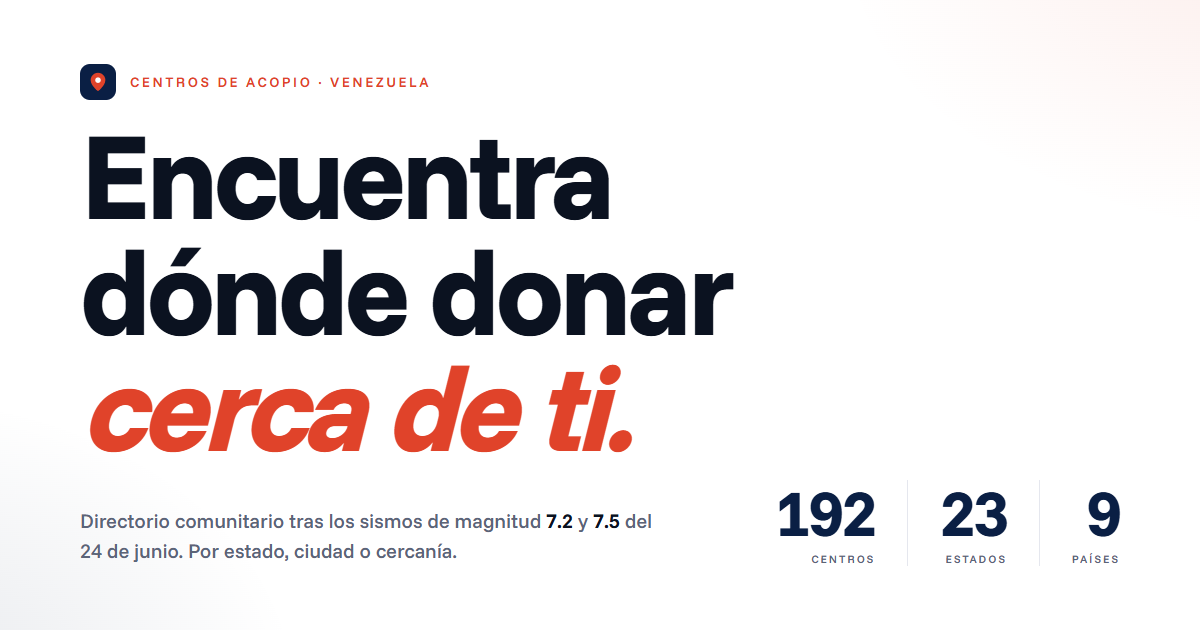
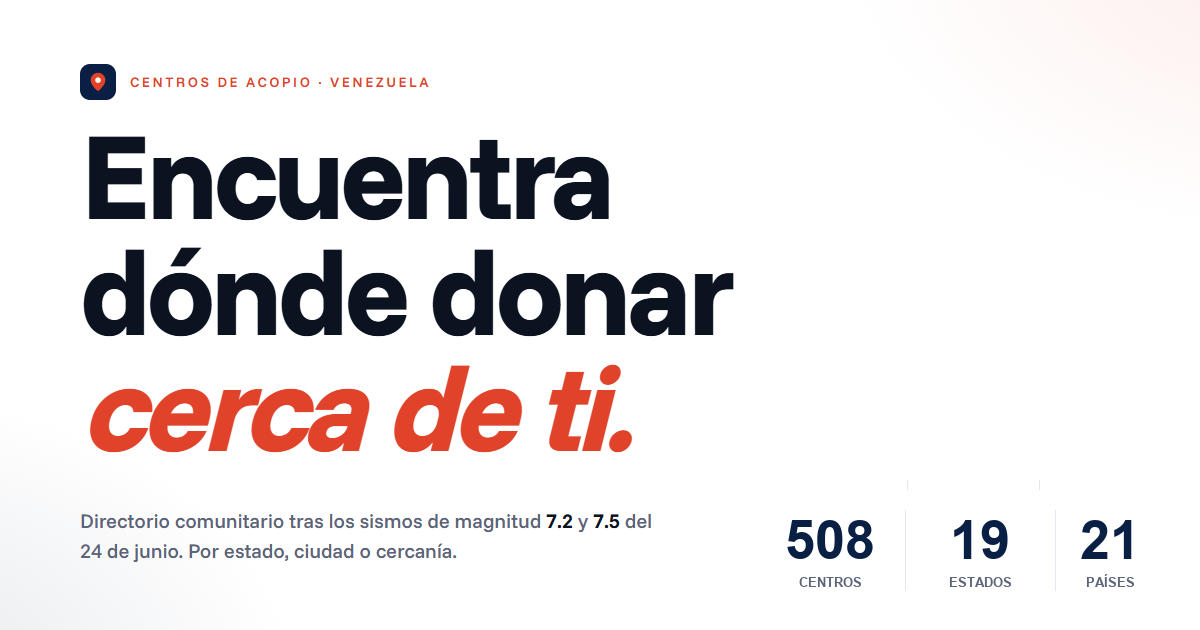
Actualiza OG image y meta descriptions con conteo actual
- OG image: 192/23/9 → 508/19/21 (centros/estados/países)
- meta description: 500+ centros en 19 estados de Venezuela y 21 países
- og:description y twitter:description con el nuevo conteo

Changed region(s): [[0.6475, 0.7841, 0.74, 0.9349], [0.7708, 0.7841, 0.8633, 0.9349], [0.8942, 0.7841, 0.9558, 0.9349]]

diff --git a/index.html b/index.html
@@ -7,7 +7,7 @@
     <!-- Primary Meta -->
     <title>Centros de Acopio Venezuela — Directorio comunitario tras el sismo</title>
     <meta name="title" content="Centros de Acopio Venezuela — Directorio comunitario tras el sismo" />
-    <meta name="description" content="Encuentra dónde donar cerca de ti. Directorio abierto de centros de acopio en Venezuela y el exterior tras los dos sismos de magnitud 7.2 y 7.5 del 24 de junio. Busca por estado, ciudad o cercanía. Reporta nuevos puntos." />
+    <meta name="description" content="Encuentra dónde donar cerca de ti. Directorio abierto con 500+ centros de acopio en 19 estados de Venezuela y 21 países, tras los dos sismos de magnitud 7.2 y 7.5 del 24 de junio. Busca por estado, ciudad o cercanía. Reporta nuevos puntos." />
     <meta name="keywords" content="centros de acopio Venezuela, donaciones Venezuela, sismo Venezuela, terremoto, ayuda humanitaria, donar, Cáritas, Caracas, Maracaibo, Punto Fijo, Aragua, refugio, agua potable, alimentos, medicamentos" />
     <meta name="author" content="Comunidad — Directorio abierto" />
     <meta name="robots" content="index, follow" />
@@ -37,7 +37,7 @@
     <meta property="og:site_name" content="Centros de Acopio Venezuela" />
     <meta property="og:url" content="https://www.centrosdeacopiovzla.com/" />
     <meta property="og:title" content="Centros de Acopio Venezuela" />
-    <meta property="og:description" content="Encuentra dónde donar cerca de ti. Directorio comunitario abierto tras los dos sismos de magnitud 7.2 y 7.5. Busca por estado, ciudad o cercanía." />
+    <meta property="og:description" content="500+ centros de acopio en 19 estados de Venezuela y 21 países. Directorio comunitario abierto tras los dos sismos de magnitud 7.2 y 7.5 del 24 de junio. Busca por estado, ciudad o cercanía." />
     <meta property="og:image" content="https://www.centrosdeacopiovzla.com/og-image.png" />
     <meta property="og:image:width" content="1200" />
     <meta property="og:image:height" content="630" />
@@ -47,7 +47,7 @@
     <meta name="twitter:card" content="summary_large_image" />
     <meta name="twitter:url" content="https://www.centrosdeacopiovzla.com/" />
     <meta name="twitter:title" content="Centros de Acopio Venezuela" />
-    <meta name="twitter:description" content="Encuentra dónde donar cerca de ti. Directorio comunitario abierto tras el sismo." />
+    <meta name="twitter:description" content="500+ centros en 19 estados de Venezuela y 21 países. Directorio comunitario abierto tras el sismo." />
     <meta name="twitter:image" content="https://www.centrosdeacopiovzla.com/og-image.png" />
     <meta name="twitter:image:alt" content="Centros de Acopio Venezuela" />
 